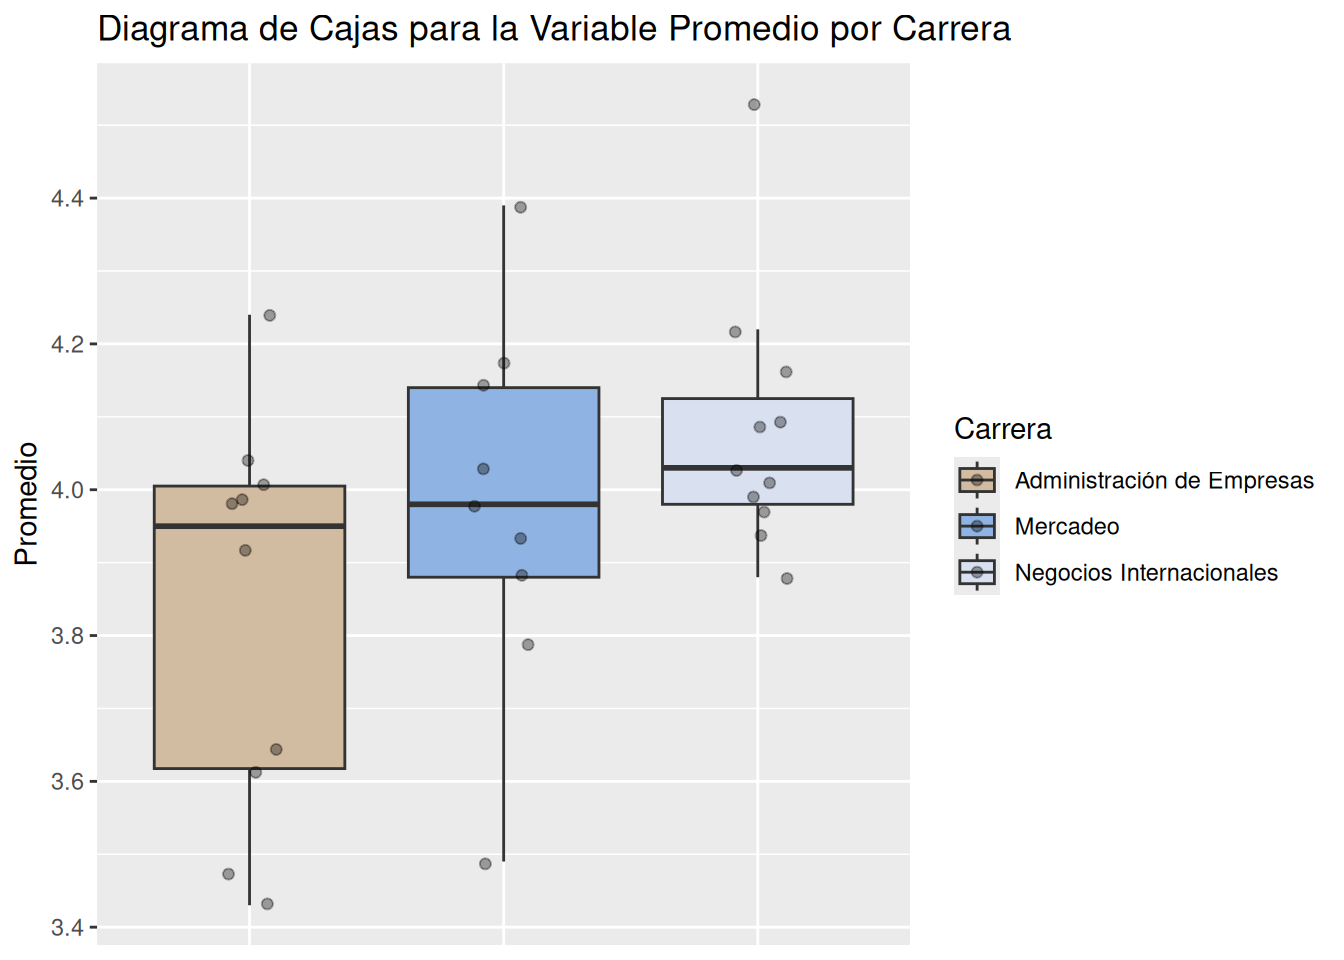
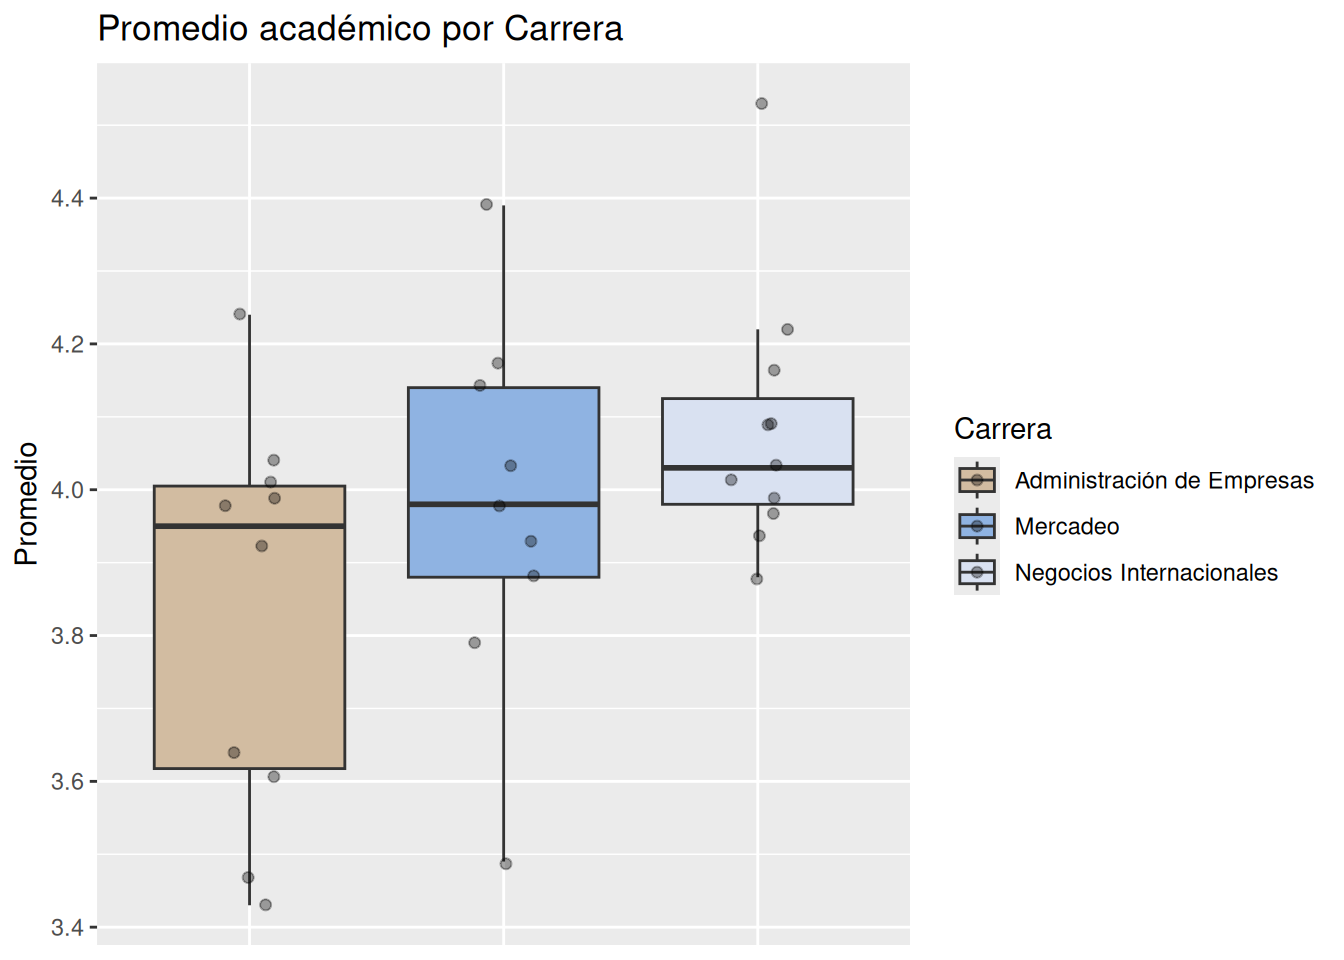
ajustes 1

diff --git a/docs/about.html b/docs/about.html
@@ -12,7 +12,7 @@
 <meta name="author" content="dgonzalez" />
 
 
-<title> </title>
+<title>Grupo 300MAE018 - B 2026-1 </title>
 
 <script src="site_libs/header-attrs-2.30/header-attrs.js"></script>
 <script src="site_libs/jquery-3.6.0/jquery-3.6.0.min.js"></script>
@@ -476,7 +476,8 @@ div.tocify {
 
 
 
-<h1 class="title toc-ignore"><span style="color:#235784"> </span></h1>
+<h1 class="title toc-ignore"><span style="color:#235784">Grupo 300MAE018
+- B 2026-1 </span></h1>
 <h3 class="subtitle"><span style="color:#235784"> </span></h3>
 <h4 class="author">dgonzalez</h4>
 
@@ -547,10 +548,11 @@ style="display: inline-block; direction: rtl; unicode-bidi: plaintext; border-ra
   ) +
   scale_fill_manual(values = paleta3) +
   labs(
-    title = &quot;Diagrama de Cajas para la Variable Promedio por Carrera&quot;,
+    title = &quot;Promedio académico por Carrera&quot;,
     x = NULL
   )</code></pre>
 <p><img src="about_files/figure-html/unnamed-chunk-2-1.png" width="672" /></p>
+<p><br/><br/></p>
 <pre class="r"><code>library(dplyr)
 
 data %&gt;%

diff --git a/docs/index.html b/docs/index.html
@@ -487,7 +487,7 @@ div.tocify {
 class="section level1">
 <h1><span style="color:#2C5697"><strong>Estadística para la toma de
 decisiones - B</strong></span></h1>
-<p><img src="img/modulos.png" width="70%" style="display: block; margin: auto;" /></p>
+<p><img src="img/modulos.png" width="100%" style="display: block; margin: auto;" /></p>
 <p><br/><br/><br/></p>
 <div id="cronograma" class="section level2">
 <h2><strong>Cronograma</strong></h2>
